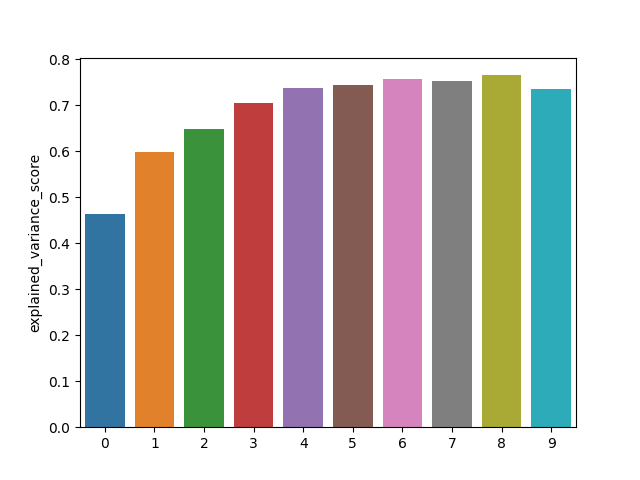
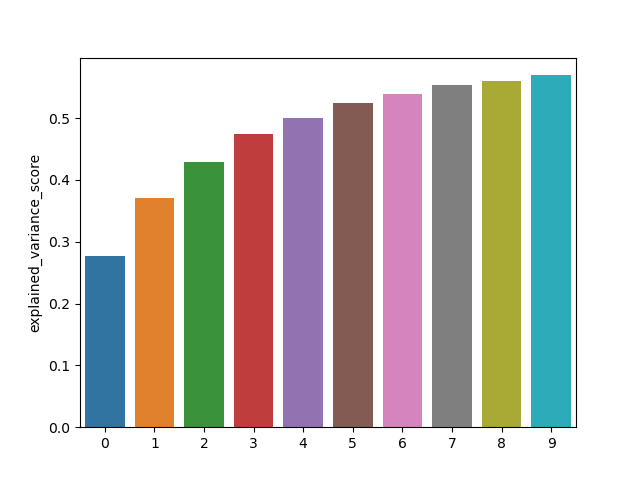
Does the job, for a moment we got a good error

diff --git a/main.py b/main.py
@@ -9,17 +9,17 @@ if __name__ == '__main__':
     ml_comparer_obj = MLComparer()
     ml_comparer_obj.initialize()
 
-    trained_rn_model = ml_comparer_obj.compare_training("RM_Model", RNModel(), 10)
-    ml_comparer_obj.compare_benchmark("RM_Model", trained_rn_model)
+    trained_rn_model = ml_comparer_obj.compare_training("RN_Model", RNModel(), 10)
+    ml_comparer_obj.compare_benchmark("RN_Model", trained_rn_model)
 
-    trained_adaboost_model = ml_comparer_obj.compare_training("ADABoost_Model", ADABoostModel(), 10)
-    ml_comparer_obj.compare_benchmark("ADABoost_Model", trained_adaboost_model)
+    # trained_adaboost_model = ml_comparer_obj.compare_training("ADABoost_Model", ADABoostModel(), 10)
+    # ml_comparer_obj.compare_benchmark("ADABoost_Model", trained_adaboost_model)
 
-    trained_svm_model = ml_comparer_obj.compare_training("SVM_Model", SVMModel(), 10)
-    ml_comparer_obj.compare_benchmark("SVM_Model", trained_svm_model)
+    # trained_svm_model = ml_comparer_obj.compare_training("SVM_Model", SVMModel(), 10)
+    # ml_comparer_obj.compare_benchmark("SVM_Model", trained_svm_model)
 
-    trained_random_forest_model = ml_comparer_obj.compare_training("RandomForest_Model", RandomForestModel(), 10)
-    ml_comparer_obj.compare_benchmark("RandomForest_Model", trained_random_forest_model)
+    # trained_random_forest_model = ml_comparer_obj.compare_training("RandomForest_Model", RandomForestModel(), 10)
+    # ml_comparer_obj.compare_benchmark("RandomForest_Model", trained_random_forest_model)
     
     ml_comparer_obj.dump_comparison()
 

diff --git a/Models/RNModels/rn_model.py b/Models/RNModels/rn_model.py
@@ -2,7 +2,7 @@ import keras.models
 import numpy as np
 from Models.generic_ml_model import GenericMLModel
 from keras import backend
-from keras.layers import Dense, Input
+from keras.layers import Dense, Input, Dropout
 from keras.models import Model
 from keras.optimizers import Adam
 
@@ -11,15 +11,17 @@ class RNModel(GenericMLModel):
     def __init__(self, rn_model: Model = None):
         super().__init__()
         self.rn_model = rn_model
-        self.learning_rate = 0.00005
+        self.learning_rate = 0.0001
 
     def init_for_training(self, input_shape: int) -> None:
-        input_layer = Input(shape=input_shape)
+        input_layer = Input(shape=input_shape) ## 88
 
-        dense_layer_1 = Dense(256, kernel_initializer='lecun_normal', activation="selu")(input_layer)
-        dense_layer_2 = Dense(128, kernel_initializer='lecun_normal', activation="selu")(dense_layer_1)
+        dense_layer_1 = Dense(1024, kernel_initializer='lecun_normal', activation="selu",bias_initializer='zeros')(input_layer)
+        dropout_layer_1 = Dropout(0.2)(dense_layer_1)
+        dense_layer_2 = Dense(512, kernel_initializer='lecun_normal', activation="selu",bias_initializer='zeros')(dropout_layer_1)
+        dropout_layer_2 = Dropout(0.2)(dense_layer_2)
 
-        output_layer = Dense(1, activation="linear")(dense_layer_2)
+        output_layer = Dense(1)(dropout_layer_2)
 
         self.rn_model = Model(input_layer, output_layer)
         self.rn_model.compile(optimizer=Adam(learning_rate=self.learning_rate), loss="mean_squared_error")

diff --git a/Utils/data_container.py b/Utils/data_container.py
@@ -20,8 +20,8 @@ class DataContainer:
         validation_set_upper_edge = int(0.9 * feature_set.shape[0])
 
         self.training_set = shuffled_feature_set[:training_set_upper_edge, :], shuffled_target_set[:training_set_upper_edge]
-        self.validation_set = shuffled_feature_set[training_set_upper_edge:validation_set_upper_edge, :], shuffled_target_set[training_set_upper_edge:validation_set_upper_edge]
-        self.test_set = shuffled_feature_set[validation_set_upper_edge:, :], shuffled_target_set[validation_set_upper_edge:]
+        self.test_set= shuffled_feature_set[training_set_upper_edge:validation_set_upper_edge, :], shuffled_target_set[training_set_upper_edge:validation_set_upper_edge]
+        self.validation_set  = shuffled_feature_set[validation_set_upper_edge:, :], shuffled_target_set[validation_set_upper_edge:]
 
     def get_training_set(self) -> tuple:
         return self.training_set
